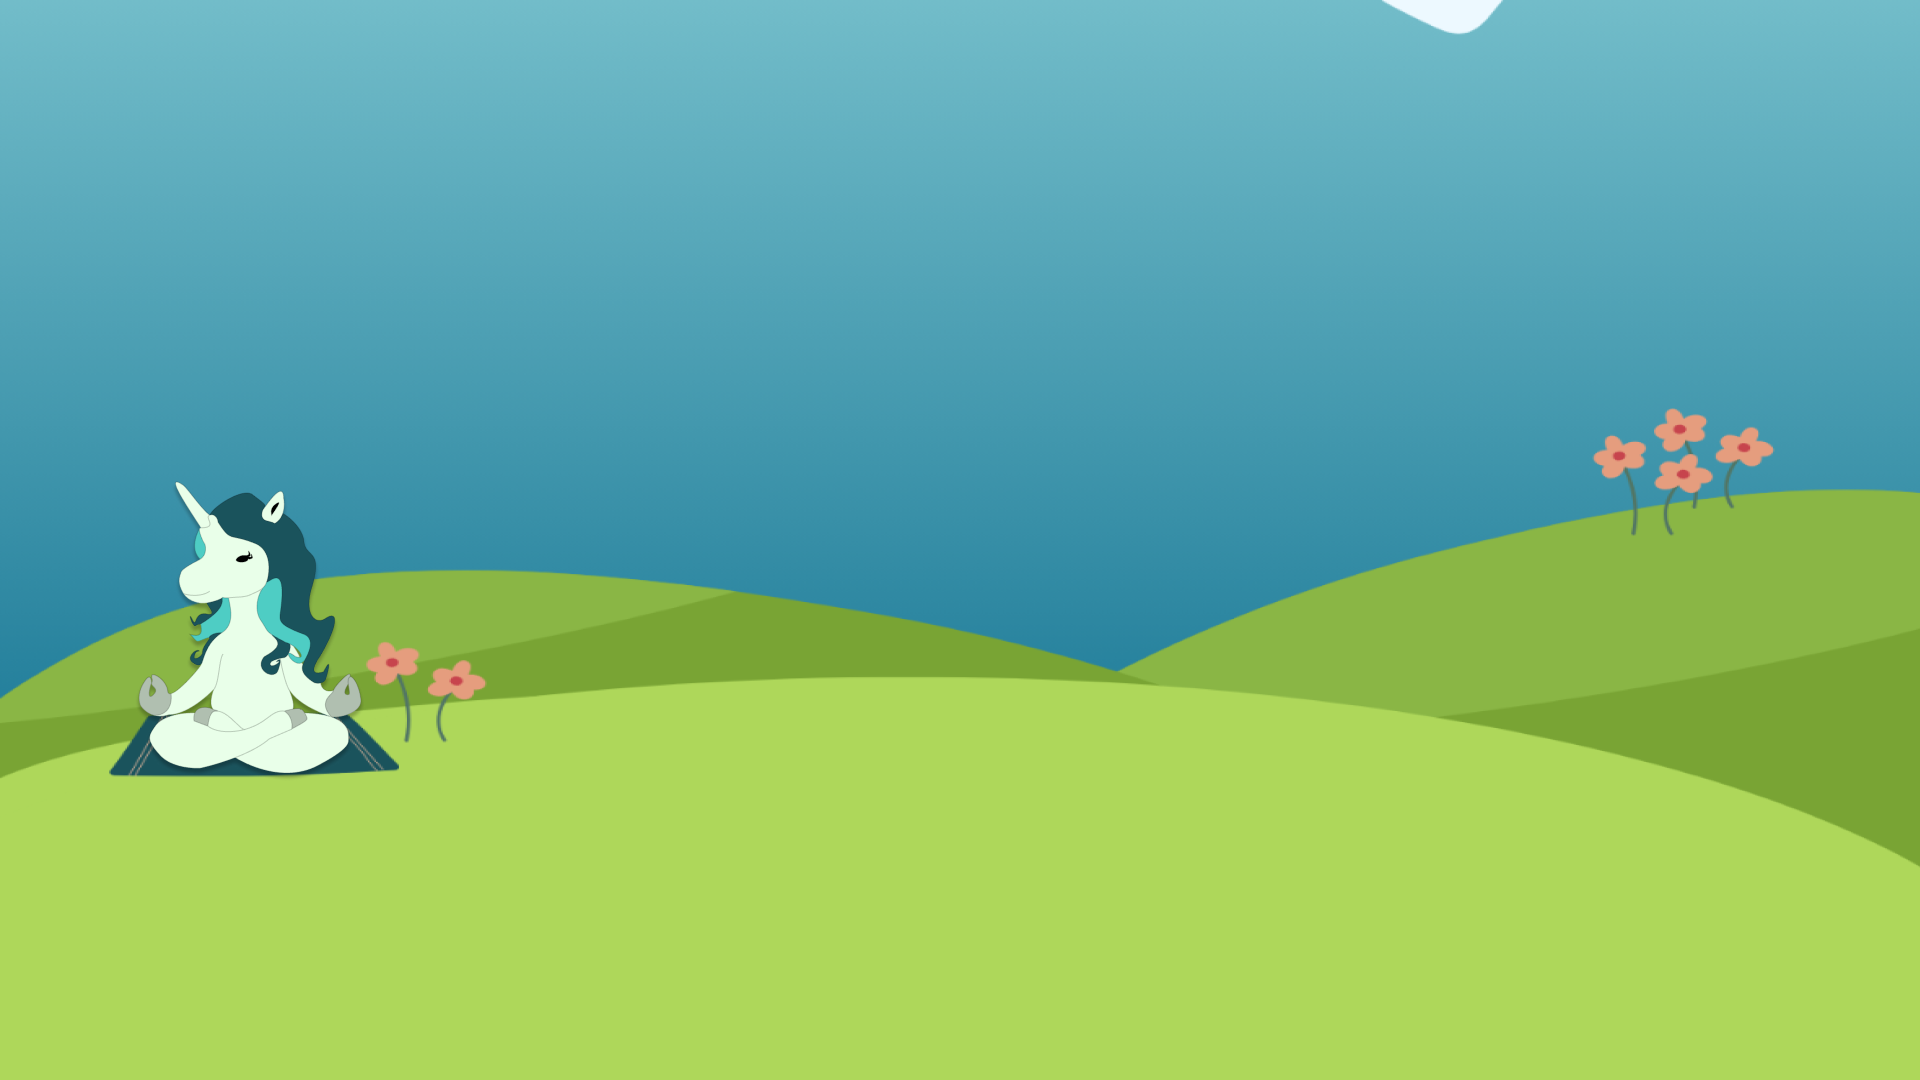
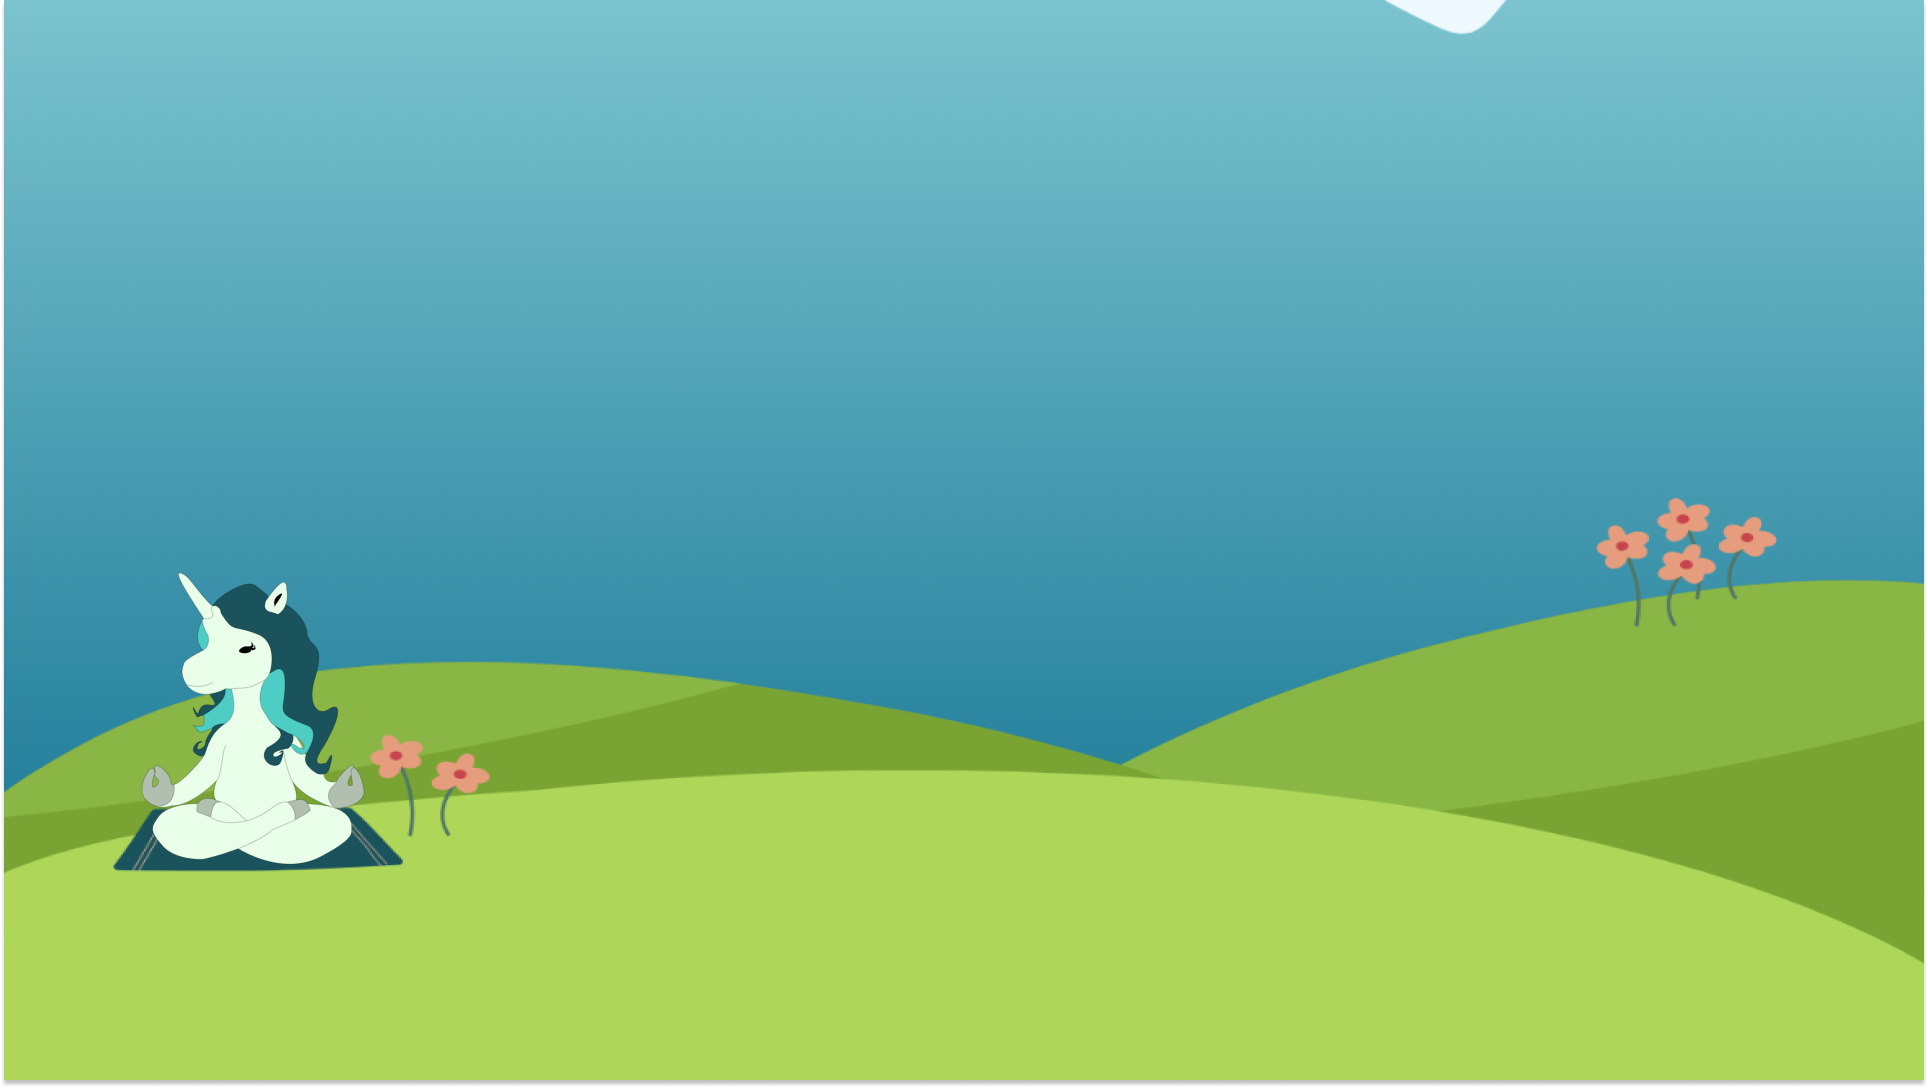
responsive changes

Changed region(s): [[0.0, 0.3667, 1.0, 0.8861], [0.0, 0.9778, 1.0, 1.0]]

diff --git a/components/Nvbar_cache.jsx b/components/Nvbar_cache.jsx
@@ -17,25 +17,20 @@ const Navbar = () => {
     setSmallMenu(false);
   };
 
-  const toggleSmallMenu = () => {
-    setSmallMenu(!smallMenu);
-  }
-
-  const closeSmallMenu = () => {
-    setSmallMenu(false);
-  };
+  
 
 
   return (
-    <div>
-      <div className={`fixed flex top-0 w-full z-10 ease-in duration-300 bg-transparent `}>
-
-      <div className="ml-2 md:ml-5 w-10 h-10 md:w-16 md:h-16 relative mt-2">
+    <div className="">
+      
+      <div className={`flex fixed top-0 w-full z-10 ease-in duration-300 bg-opacity-0 justify-between`}>
+        <div className="ml-5">
             <Link href="/" className="ml-5 hover:scale-105 transition duration-500">
-              <Image src="/assets/Logo.png" fill
+              <Image src="/assets/Logo.png" height={70} width={70} 
                     alt="YouCode Logo"   />
             </Link>
         </div>
+      
         <div className="sm:hidden flex items-center"> {/* Center the hamburger menu */}
           <button
             className="p-2 focus:outline-none"
@@ -43,7 +38,7 @@ const Navbar = () => {
             aria-label="Toggle Menu"
           >
             <svg
-              className="h-6 w-6 fill-current text-white"
+              className="h-6 w-6  z-10 fill-current text-white"
               viewBox="0 0 24 24"
             >
               {isOpen ? (
@@ -64,11 +59,11 @@ const Navbar = () => {
         </div>
         <div
           className={`${
-            isOpen ? "flex flex-col items-end justify-end h-screen z-1000 bg-white text-black" : "hidden"
-          } sm:flex flex-col sm:flex-row sm:w-full font-medium justify-end text-white gap-4 mt-4`}
+            isOpen ? "flex flex-col items-center z-10 h-screen" : "hidden"
+          } justify-end sm:flex flex-col sm:flex-row sm:w-full z-10 font-medium text-white gap-2 `}
         >
-          <ul className={`flex flex-col z-1000 md:flex-row justify-end  sm:flex text-sm lg:text-lg 2xl:text-2xl text-white`}>
-          <li className="p-4 mr-4 hover:bg-primary-darkgreen hover:scale-110 transition duration-500">
+          <ul className={`flex flex-col  items-end md:flex-row sm:flex text-lg 2xl:text-2xl text-white`}>
+            <li className="p-4 mr-4 hover:bg-primary-darkgreen hover:scale-110 transition duration-500">
               <Link onClick={closeMenu} href="/">About</Link>
             </li>
             <li className="p-4 mr-4 hover:bg-primary-darkgreen hover:scale-110 transition duration-500">
@@ -91,6 +86,7 @@ const Navbar = () => {
             <li className="p-4 mr-4 hover:bg-primary-darkgreen hover:scale-110 transition duration-500">
               <Link onClick={closeMenu} href="https://www.ubcgirlcode.com/">girlCode</Link>
             </li>
+           
           </ul>
         </div>
       </div>

diff --git a/components/Register.jsx b/components/Register.jsx
@@ -5,15 +5,18 @@ import Link from 'next/link';
 const Register = () => {
   return (
     <div className='flex flex-col items-center justify-center w-1/2'>
-      <p className='text-lg  text-dark-green font-bold  ]'>WiDS@UBC x UBC WiCS</p>
-        <div className="max-w-sm">
-          <Image src="/assets/youCode.png" height={130} width={550}  />
+      <p className='text-xs md:text-lg  text-dark-green font-bold  ]'>WiDS@UBC x UBC WiCS</p>
+      <div className=" md:ml-5 w-48 h-12 md:w-96 md:h-28 relative ">
+            <Link href="/" className="ml-5 hover:scale-105 transition duration-500">
+              <Image src="/assets/Youcode.png" fill
+                    alt="YouCode Logo"   />
+            </Link>
         </div>
 
-      <p className='text-xl text-dark-green font-bold mt-5 drop-shadow-md'>24-hour wellness-themed hackathon</p>
-      <p className='text-xl text-dark-green font-bold  drop-shadow-md'>April 5-6, 2024</p>
-      <Link href="/" className='mt-8'>
-        <p className='text-2xl bg-[#B72E38] border-[#C7444D]/[1] px-7 rounded-3xl py-1 transform hover:scale-105 transition duration-500 drop-shadow-xl '>
+      <p className='text-xs md:text-xl text-dark-green font-bold md:mt-5 drop-shadow-md'>24-hour wellness-themed hackathon</p>
+      <p className='text-xs md:text-xl text-dark-green font-bold  drop-shadow-md'>April 5-6, 2024</p>
+      <Link href="/" className='mt-2 md:mt-8'>
+        <p className='text-xs  md:text-2xl bg-[#B72E38] border-[#C7444D]/[1] px-7 rounded-3xl py-1 transform hover:scale-105 transition duration-500 drop-shadow-xl '>
           Apply!
         </p>
       </Link>

diff --git a/components/TimeLine.jsx b/components/TimeLine.jsx
@@ -7,22 +7,20 @@ const TimeLine = () => {
   const { ref: ponyRef, style: ponyStyle } = useParallax
     ({easing: 'easeOutQuad',
     translateX: ['0vw', '0vw'],
-    translateY: ['5vw', '-10vw'],
+    translateY: ['50vh', '80vh'],
     scale: [1, 1] });
 
   return (
-    <div className='flex p-32 w-full relative items-center justify-center' id="schedule">
-      
-      <Image src="/assets/timeline.png" height={1050} width={850} layout="responsive" alt="timeline" />
-      <div className="z-40 flex flex-col mx-auto absolute  items-center">
-        <p className='text-xl text-black'>Pre-hackathon workshops TBA</p>
-        <p className='text-xl text-black mt-10'> Hackathon April 5-6</p>
-      </div>
-      <div className="flex items-end justify-end right-20 bottom-20 absolute" ref={ponyRef} style={ponyStyle}>
-        <Image src="/assets/face_mask_unicorn.png"  height={200} width={200} alt="pony"/>
-      </div>
-      
-    </div>
+    <div className='flex md:p-20 w-full items-center justify-center z-10' id="schedule">
+  <div className="flex flex-col items-center text-center"> {/* Added 'text-center' class */}
+    <p className='text-xl text-black'>Pre-hackathon workshops TBA</p>
+    <p className='text-xl text-black mt-10'> Hackathon April 5-6</p>
+  </div>
+  <div className="flex items-end justify-end w-48 h-56 md:w-48 md:h-60 absolute bottom-20 right-20" ref={ponyRef} style={ponyStyle}>
+    <Image src="/assets/face_mask_unicorn.png" fill alt="pony"/>
+  </div>
+</div>
+
   )
 }
 

diff --git a/sections/Hero.jsx b/sections/Hero.jsx
@@ -23,13 +23,17 @@ const BgSectionContainer = styled(SectionContainer)`
   z-index: 0;
   overflow: hidden;
 
+
   
   }
 `
 const BgScroll = styled(SectionContainer)`
   background: url('assets/heroBackground.png');
   background-size: 100vw;
+  background-size: 100vh;
+  
   background-repeat: no-repeat;
+  background-size: cover;
   background-position: center top;
   height: 100%;
   width: 100%;
@@ -37,6 +41,7 @@ const BgScroll = styled(SectionContainer)`
   position: absolute;
   top: 0;
   z-index: 1;
+  
   
 
 `
@@ -46,6 +51,10 @@ const BodyContainer = styled.div`
   
   margin-top: 13rem;
   position:relative;
+
+  @media (max-width: 767px) {
+    margin-top: 3rem;
+  }
   
  
 `
@@ -55,7 +64,7 @@ const Hero = () => {
   return (
     <BgSectionContainer>
       <BgScroll />
-      <BodyContainer className='flex  items-center justify-center z-10'>
+      <BodyContainer className='flex flex-row  items-center justify-center z-10'>
         <Countdown className="w-1/2"/>
         <Register />
         

diff --git a/components/sponsors.jsx b/components/sponsors.jsx
@@ -18,8 +18,8 @@ const Sponsors = () => {
         Our Sponsors: 
       </p>
       <div className="mt-40"></div>
-      <div className="flex mx-20" ref={cloud1Ref} style={cloud1Style}>
-        <Image src="/assets/arcteryx.png" height={200} width={200}  />
+      <div className="flex mx-20  w-48 h-48 md:w-64 md:h-48 relative" ref={cloud1Ref} style={cloud1Style}>
+        <Image src="/assets/arcteryx.png" fill  />
       </div>
       
     </div>

diff --git a/sections/Timer.jsx b/sections/Timer.jsx
@@ -18,7 +18,7 @@ const InfoContainer = styled.div`
   
 `
 const BgScroll = styled(SectionContainer)`
-  background: url('assets/Timer3.png');
+  background: url('assets/Background2.png');
   background-size: 100vw;
   background-repeat: no-repeat;
   background-position: center center;
